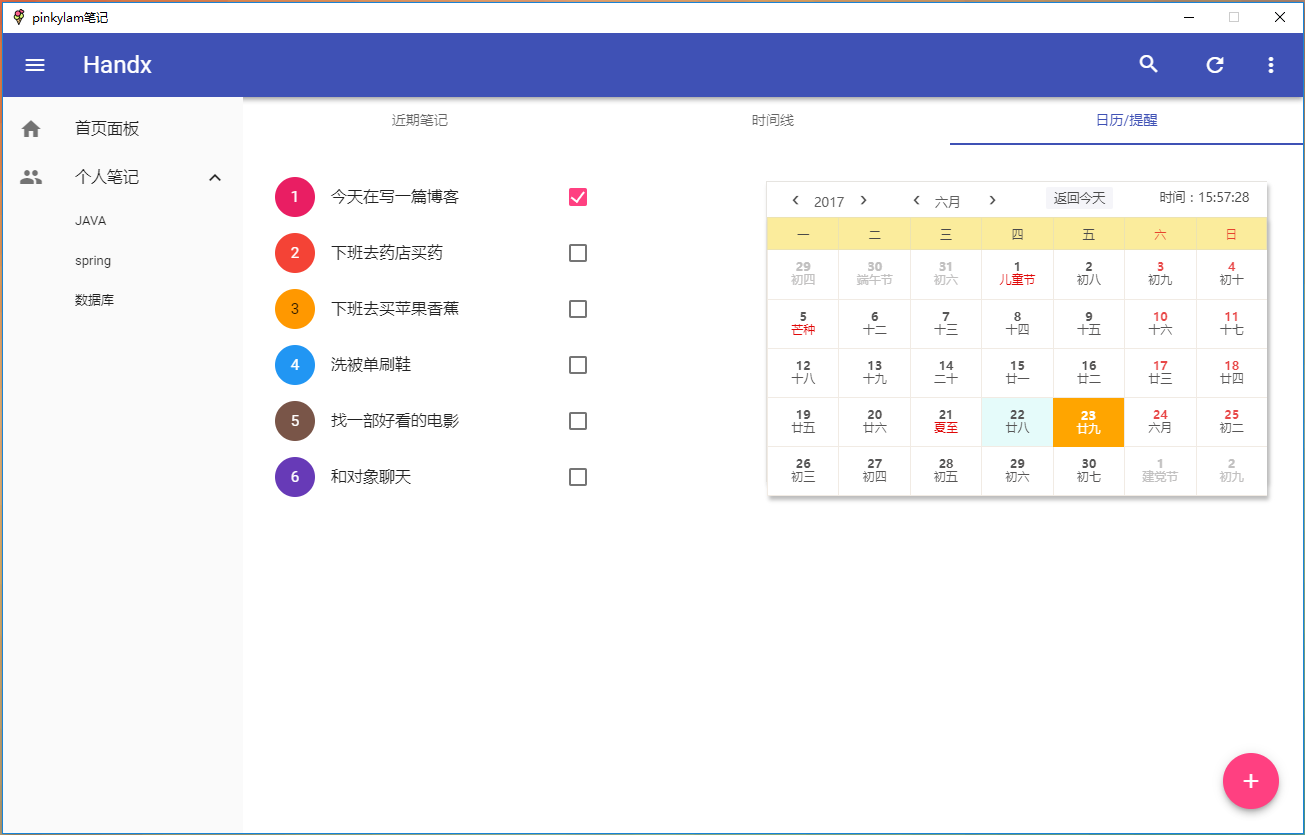
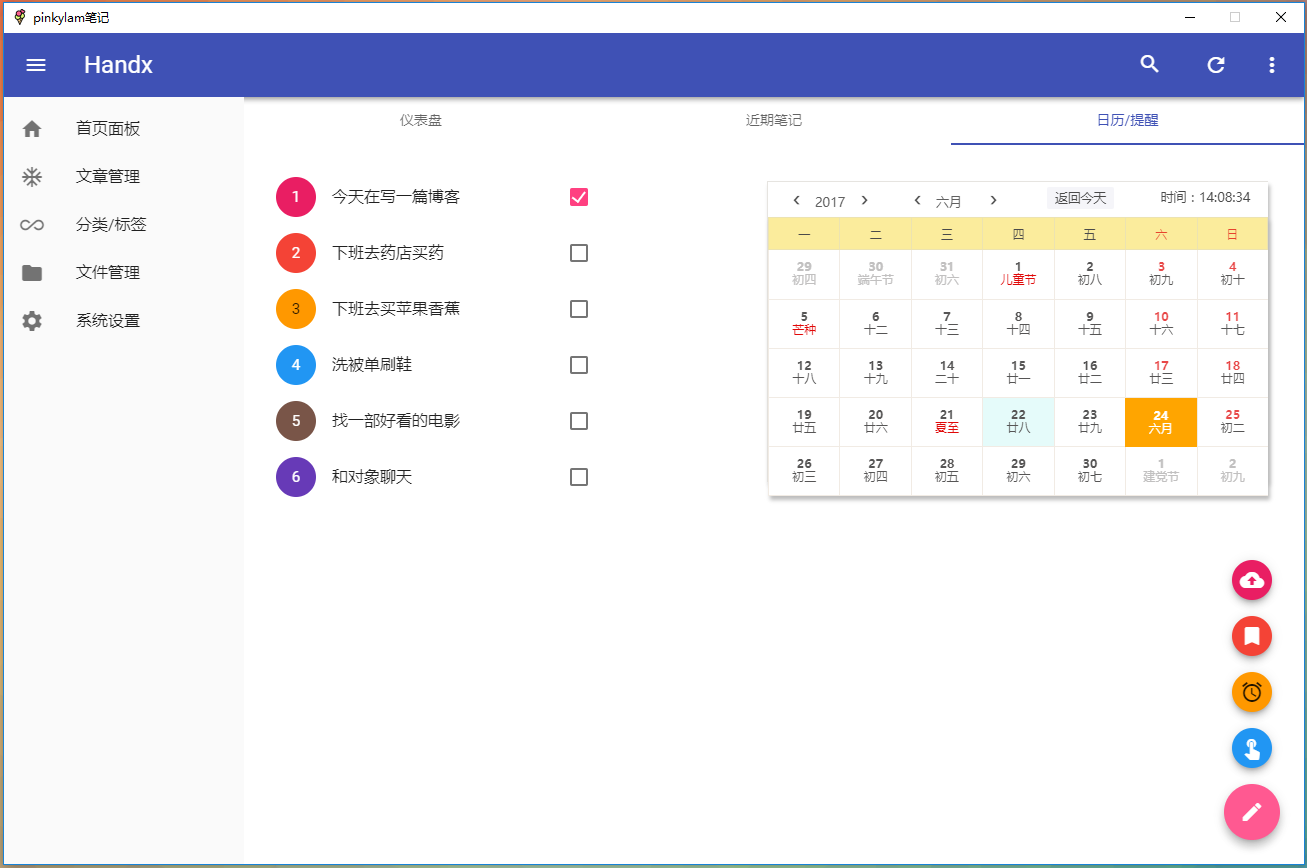
update index and menu

diff --git a/view/welcome.html b/view/welcome.html
@@ -11,8 +11,8 @@
 	</head>
 	<body>
 		<div class="mdui-tab mdui-tab-full-width" mdui-tab>
+			<a href="#tab2-content" id="tab2" class="mdui-ripple">仪表盘</a>
 			<a href="#tab1-content" id="tab1" class="mdui-ripple">近期笔记</a>
-			<a href="#tab2-content" id="tab2" class="mdui-ripple">时间线</a>
 			<a href="#tab3-content" id="tab3" class="mdui-ripple">日历/提醒</a>
 		</div>
 			
@@ -41,7 +41,36 @@
 				</div>
 			</div>
 		</div>
-		<div id="tab2-content" class="mdui-p-a-2">还没开发</div>
+		<div id="tab2-content" class="mdui-p-a-2 mdui-row-xs-4">
+			<div class="statistics_panel mdui-col mdui-color-pink mdui-shadow-5 mdui-hoverable mdui-img-rounded">
+				<i class="mdui-icon material-icons" style="font-size: 40px;">&#xe0e0;</i>
+				<div class="mdui-text-center">
+					<b style="font-size: 40px;">36</b>&nbsp;(篇)
+				</div>
+				<div style="margin-top: 40px;">已经写了36篇文章了，继续努力！</div>
+			</div>
+			<div class="statistics_panel mdui-col mdui-color-red mdui-shadow-5 mdui-hoverable mdui-img-rounded">
+				<i class="mdui-icon material-icons" style="font-size: 40px;">&#xe2bc;</i>
+				<div class="mdui-text-center">
+					<b style="font-size: 40px;">48</b>&nbsp;(个)
+				</div>
+				<div style="margin-top: 40px;">已经上传了48个附件！</div>
+			</div>
+			<div class="statistics_panel mdui-col mdui-color-orange mdui-shadow-5 mdui-hoverable mdui-img-rounded">
+				<i class="mdui-icon material-icons" style="font-size: 40px;color: white;">&#xe192;</i>
+				<div class="mdui-text-center">
+					<b style="font-size: 40px;color: white;">56</b>&nbsp;<span style="color: white;">(分钟)</span>
+				</div>
+				<div style="margin-top: 40px;color: white;">写作时间大概已经花费56分钟！</div>
+			</div>
+			<div class="statistics_panel mdui-col mdui-color-blue mdui-shadow-5 mdui-hoverable mdui-img-rounded">
+				<i class="mdui-icon material-icons" style="font-size: 40px;">&#xe80d;</i>
+				<div class="mdui-text-center">
+					<b style="font-size: 40px;">78</b>&nbsp;(次)
+				</div>
+				<div style="margin-top: 40px;">文章累计共78次！</div>
+			</div>
+		</div>
 		<div id="tab3-content" class="mdui-p-a-2">
 			<div style="float: left;width: 350px;">
 				
@@ -139,7 +168,7 @@
 		}
 		
 		myCalendar.updateSize('500px', '300px');
-		myCalendar.addMark('2017-6-22', 'hahahhahahah');
+		myCalendar.addMark('2017-6-22', '下班回家买菜做饭喽');
 		
 	</script>
 	

diff --git a/view/index.html b/view/index.html
@@ -46,7 +46,7 @@
 					    <i class="mdui-list-item-icon mdui-icon material-icons">&#xe88a;</i>
 					    <div class="mdui-list-item-content" id="home_panel">首页面板</div>
 				  	</li>
-				  	<li class="mdui-collapse-item mdui-collapse-item-open">
+				  	<!--<li class="mdui-collapse-item mdui-collapse-item-open">
 					    <div class="mdui-collapse-item-header mdui-list-item mdui-ripple">
 					      <i class="mdui-list-item-icon mdui-icon material-icons">&#xe7fb;</i>
 					      <div class="mdui-list-item-content">个人笔记</div>
@@ -57,6 +57,21 @@
 					      <li class="mdui-list-item mdui-ripple">spring</li>
 					      <li class="mdui-list-item mdui-ripple">数据库</li>
 					    </ul>
+				  	</li>-->
+				  	<li class="mdui-list-item mdui-ripple">
+					    <i class="mdui-list-item-icon mdui-icon material-icons">&#xeb3b;</i>
+					    <div class="mdui-list-item-content" id="home_panel">文章管理</div>
+				  	</li>
+				  	<li class="mdui-list-item mdui-ripple">
+					    <i class="mdui-list-item-icon mdui-icon material-icons">&#xeb3d;</i>
+					    <div class="mdui-list-item-content" id="home_panel">分类/标签</div>
+				  	</li>
+				  	<li class="mdui-list-item mdui-ripple">
+					    <i class="mdui-list-item-icon mdui-icon material-icons">&#xe2c7;</i>
+					    <div class="mdui-list-item-content" id="home_panel">文件管理</div>
+				  	</li><li class="mdui-list-item mdui-ripple">
+					    <i class="mdui-list-item-icon mdui-icon material-icons">&#xe8b8;</i>
+					    <div class="mdui-list-item-content" id="home_panel">系统设置</div>
 				  	</li>
 				</ul>
 			</div>
@@ -75,7 +90,7 @@
     		</div>
   		</div>
   		
-  		<div style="height: 730px;" style="border: 1px solid red;">
+  		<div style="height: 700px;" style="border: 1px solid red;">
   			<iframe id="m_Iframe" frameborder="0" width="100%" height="100%" marginheight="0" marginwidth="0" scrolling="no"></iframe>
   		</div>
   		

diff --git a/resource/css/login.css b/resource/css/login.css
@@ -1,4 +1,4 @@
-#main{width: 1250px;height: 770px;min-height: 770px;min-width: 1250px;}
+#main{width: 1250px;height: 750px;min-height: 750px;min-width: 1250px;}
 #login{margin-top: 200px;margin-left: 320px;}
 .mdui-textfield{margin-top: 20px;}
 #title{margin-top: 200px;margin-left: 190px;}

diff --git a/resource/css/index.css b/resource/css/index.css
@@ -1,4 +1,6 @@
-#main{width: 1250px;height: 770px;min-height: 770px;min-width: 1250px;}
+#main{width: 1250px;height: 750px;min-height: 750px;min-width: 1250px;}
 
 #setting_menu{margin-top: 70px;}
 .mdui-card{margin-left: 10px;}
+
+.statistics_panel{height: 150px;padding: 0px 10px;}

diff --git a/README.md b/README.md
@@ -9,6 +9,7 @@
 ## 项目日志
 - 开发登录界面和首页（*2017-06-22*）
 - 修改首页界面、完善日历提醒界面开发（*2017-06-23*）
+- 修改整体界面布局，添加仪表盘（*2017-06-24*）
 
 ## 项目预览
 
@@ -18,9 +19,11 @@
 
 ### 首页预览
 
-![首页界面](https://github.com/handexing/PinkyLam-blog/raw/master/preview/index.png)
+![仪表盘](https://github.com/handexing/PinkyLam-blog/raw/master/preview/index.png)
 
-![首页界面](https://github.com/handexing/PinkyLam-blog/raw/master/preview/m_calendar.png)
+![文章](https://github.com/handexing/PinkyLam-blog/raw/master/preview/article.png)
+
+![日历提醒](https://github.com/handexing/PinkyLam-blog/raw/master/preview/m_calendar.png)
 
 
 > 觉得不错的朋友可以点下star,watch,fork也算是对我的鼓励了。
